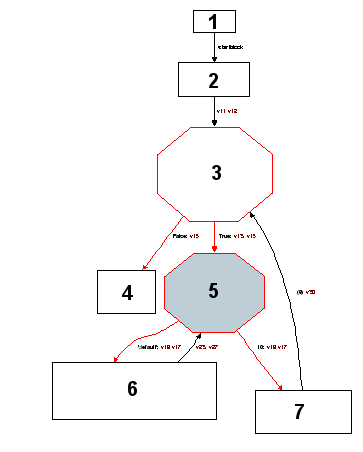
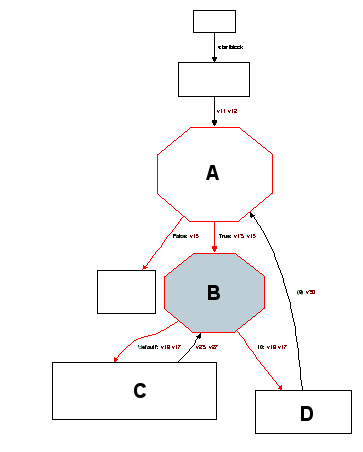
use letters instead of numbers to label the blocks in the picture, to avoid confusion with the "official" numbering described below

diff --git a/talk/icooolps2009-dotnet/clibackend.tex b/talk/icooolps2009-dotnet/clibackend.tex
@@ -17,7 +17,7 @@ code for a real CPU it emits code for a virtual machine\footnote{By using the
 before being executed, the generated code will be compiled again by the .NET JIT
 compiler.
 
-Thus, when using the CLI backend, we actually have two JIT compilers at two different levels
+Thus, when using the CLI backend, we actually have two JIT compilers at two different
 layers, each one specialized in different kinds of optimization.
 By operating at a higher level, our JIT can potentially do a better job 
 in some contexts, as our benchmarks demonstrate (see
@@ -56,16 +56,16 @@ dynamically added whenever new cases are needed.
 \includegraphics[height=5cm]{flexswitch1}
 \includegraphics[height=5cm]{flexswitch2}
 \caption{An example of a flexswitch evolution: in the picture on the
-  right block 7 has been dynamically added.}\label{flexswitch-fig}
+  right block D has been dynamically added.}\label{flexswitch-fig}
 \end{center}
 \end{figure}
 
-In the pictures of Figure~\ref{flexswitch-fig}, block 5 (highlighted in grey)
+In the pictures of Figure~\ref{flexswitch-fig}, block B (highlighted in grey)
 corresponds to a flexswitch; initially (picture on the left) 
-only block 6, containing the code to restart the JIT compilation,
+only block C, containing the code to restart the JIT compilation,
 is connected to the flexswitch; the picture on the right
 shows the graph after the first case has been dynamically added to the flexswitch,
-by linking block 5 with the freshly created block number 7.
+by linking block B with the freshly created block D.
 
 
 \subsection{Implementing flexswitches in CLI}
@@ -100,9 +100,6 @@ following way:
 
 \item Each either primary or secondary method implements a certain
   number of blocks, all belonging to the same flow graph.
-
-\item The parameters of a method correspond to the arguments of what we call the \emph{initial block} of the method.
-
 \end{itemize} 
 
 When a new case is added to a flexswitch, the backend generates the new blocks
@@ -126,7 +123,7 @@ Following an external link whose target is an initial block could also
 be easily implemented, by just invoking the corresponding method.
 What cannot be easily implemented in CLI is following an external link
 whose target is not an initial block; consider, for instance, the
-outgoing link from block 7 to block 3 in Figure~\ref{flexswitch-fig}. How is it possible to jump into
+outgoing link from block D to block A in Figure~\ref{flexswitch-fig}. How is it possible to jump into
 the middle of a method?
 
 To solve this problem every method contains a special code, called
@@ -273,6 +270,11 @@ public class IntLowLevelFlexSwitch:
   }
 }
 \end{lstlisting}
+
+XXX: add note to explain why we use a for loop instead of an hashtable
+
+XXX: add note to explain who calls execute()
+
 The mapping from integers values to delegates (pointing to secondary
 methods) is just implemented by the two arrays \lstinline{values} and
 \lstinline{cases}. Method \lstinline{add_case} extends the mapping
